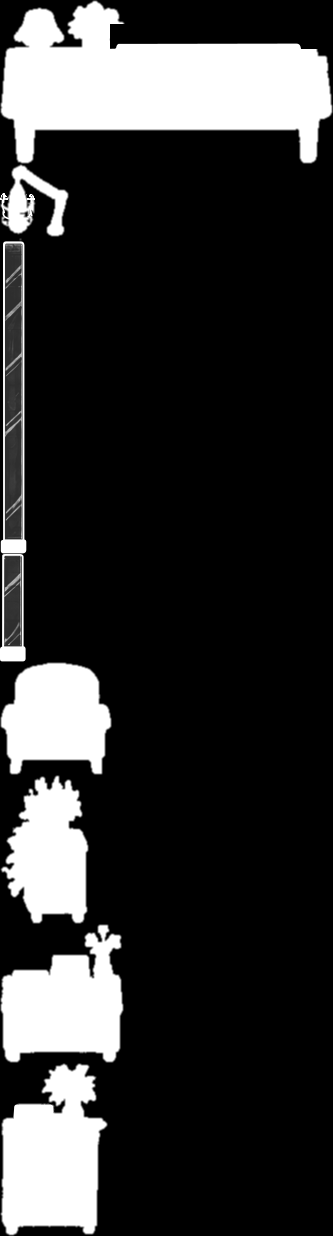
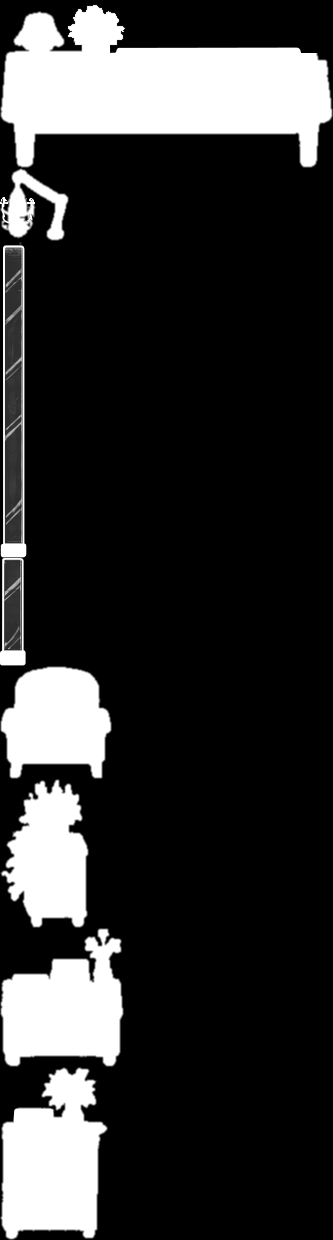
Trace flowers, cinema fences, town shrub and meadow tent occlusion

diff --git a/src/room-furniture.ts b/src/room-furniture.ts
@@ -4,22 +4,6 @@ const outline = (pairs: number[][]): Point[] => pairs.map(([x,y]) => ({x,y}));
 
 // Silhouettes follow the finished map artwork; depth is measured at the floor.
 export const roomFurniture = [
-  {id:"desk", y:253, points:outline([
-    [21,131.75],[19,135],[17.75,140],[16.5,140.5],[16.5,153.25],[18.25,157.25],[17.75,167],[18.5,167.75],
-    [18.25,169.75],[19,173.25],[21.75,170.5],[24.5,170.5],[25.5,172],[21.75,180],[22,184.25],[19.25,190.75],
-    [19.75,195.5],[17.75,196.75],[17.75,201],[19.25,204],[17.75,206.5],[17,206],[16.25,206.75],[15.5,206],
-    [13.75,208],[12.75,206.75],[13,215],[14.25,216.25],[13.5,226.75],[15,228.75],[14.75,232.25],[16.25,234.5],
-    [16.25,238.75],[18.25,240.75],[18.25,243.25],[19.75,243.25],[19.25,249.75],[21.25,251.75],[22.75,251.75],[24,253],
-    [26.75,253],[28.25,251],[28.25,244.25],[56.5,244.25],[57.25,245.5],[57.25,250.5],[59.5,253.25],[62.75,253],
-    [63.75,251.25],[63.5,242.75],[64.25,242.5],[64.25,237.25],[69,223.25],[69.25,220],[70,219.25],[69,218.25],
-    [69,217],[70,215],[70,210.75],[73.25,197.75],[75.5,192.75],[78,190],[81.75,190],[82.25,174],
-    [81.5,165.5],[82.25,163.5],[82.25,158],[80,155],[80,149],[78.25,147],[80,140],[78.25,138.5],
-    [76.75,140.75],[78,142],[76.75,144],[76,143.5],[73.25,146.75],[71.75,146.75],[69.75,146],[68.5,144.25],
-    [67.5,144.25],[65.5,140.75],[64.75,140.75],[63.5,144],[60.75,143.5],[59.5,145],[59.25,148.75],[57.25,152.25],
-    [55.25,151.25],[55.25,147.5],[52.25,140.75],[46,135],[40.5,134.25],[35.25,137],[34.5,142.5],[31.5,147.75],
-    [31.5,152.25],[28.25,152.5],[27.5,149],[26.25,148.25],[27.25,144.75],[25.5,143.5],[26,142.5],[25.25,139.25],
-    [23.25,139.25],[22,138],
-  ])},
   {id:"desk-chair", y:232, points:outline([
     [105,161.25],[101.25,161.5],[99.75,167.5],[95.5,174],[95,184.5],[96,186.5],[92.5,190],[83.5,190],
     [82.5,189.25],[79.5,189.75],[76.25,192.5],[74.75,192.75],[71.75,196.75],[69.75,204],[69.75,208.75],[67.75,212.25],
@@ -53,44 +37,6 @@ export const roomFurniture = [
     [468.5,46.25],[463,47.5],[442,57.25],[440.5,56.5],[441.5,55],[439.25,52.25],[439.25,51],[435.75,47.5],
     [432.5,47.5],
   ])},
-  {id:"bedside-bouquet", y:218, points:outline([
-    [579,179],[576.75,180.75],[574,181],[570,180.25],[569.25,181],[569.25,183],[566.5,184.5],[563.75,183.75],
-    [563,186.25],[561.5,187.25],[562,189.25],[560,190.5],[560,191.5],[561.25,191.5],[562,193.25],[560.75,195],
-    [560.25,197.75],[562.25,197.75],[564.75,199.75],[566.25,199.75],[567,201.25],[569,202.25],[568.5,204.5],[567,206.75],
-    [566.5,212.25],[568.5,217],[572.75,219],[576,219],[579.5,217],[582.25,214.25],[583,212.75],[582.25,203.25],
-    [584.5,201.25],[587.75,201],[588.5,190.75],[585.75,188.75],[584.5,185],[582.5,183.75],[582.5,182.5],[581,181.75],
-  ])},
-  {id:"wall-vase", y:103, points:outline([
-    [174,62.75],[171.25,63.75],[172,65],[172,68.25],[171,69.75],[165.5,70.5],[165.5,68.25],[163.75,67.5],
-    [162,68.5],[162.25,69.75],[161.5,71.75],[163.5,72.75],[163,75.25],[163.75,76],[163.5,80.25],[162.25,82.25],
-    [163.75,84.5],[163.75,86.25],[165.5,87.25],[165.5,97.75],[166.5,100.5],[168.25,102.25],[169,101],[176.75,102.25],
-    [181,99.5],[181,89.75],[182.5,88],[187.25,86.5],[188.5,85.25],[188.5,78],[190.5,76],[189.25,73.25],
-    [186.5,72.5],[184.5,70.5],[184.5,69.25],[186.25,68.25],[184.5,67.5],[181.75,67.5],[180,70.5],[179,69.25],
-    [178,69.75],[177.25,67.5],[178,65],[176.25,64.75],[176,63.5],
-  ])},
-  {id:"wicker-basket", y:324, points:outline([
-    [25.5,260.25],[24.5,263.5],[25.5,265],[24,269],[21.75,270],[21.25,272.75],[19,274],[17.75,283.75],
-    [13.75,291.25],[14.25,300.25],[16.5,305],[16.25,310.75],[26.25,319.75],[31.5,322.75],[36.5,324],[49,324],
-    [50.5,323.25],[51,321],[58.5,321],[62,319.75],[68.25,314.75],[71.25,307.25],[71.25,301],[72,300.25],
-    [72.75,296.25],[72,289.25],[70.5,287.25],[70,285.25],[67.75,282.5],[65,283],[61.25,281],[58,280.75],
-    [56.5,279],[54.5,279],[53,277.5],[52.5,273.25],[49.5,270],[49.5,267],[45.5,266.25],[44.25,267.5],
-    [42.75,265.75],[44,263],[44,261.25],[42.75,259.5],[39.25,260.75],[39.25,262],[37.25,263.75],[37.75,265.5],
-    [36.25,267],[35.25,266.25],[34.25,266.5],[33,265.5],[33,264.75],[30.25,262],[30.25,260],[29,258.75],
-    [26.75,260.75],
-  ])},
-  {id:"table", y:249, points:outline([
-    [330.75,183.5],[330.25,184.25],[328.75,183],[328.75,182.25],[327.5,182.5],[325.5,180],[322.75,179],[322.5,183.75],
-    [320,185],[320,187.25],[321.25,188.75],[321,190.75],[321.75,191.5],[320.5,194.25],[317,190.5],[317,188.5],
-    [315.5,186.5],[313.5,186.5],[313.5,188],[312.75,188.75],[311.5,187.75],[311.5,188.5],[310.25,188.75],[310,194.25],
-    [310.75,194.25],[311.5,195],[311.25,195.5],[306.75,195.5],[306.5,194.75],[295.5,194.75],[294,195.5],[289.25,195.5],
-    [288.75,196.25],[283,196.75],[281,197.75],[280,197.5],[277.5,199.5],[276.25,199],[274,200.25],[266.5,206.5],
-    [263,213.75],[263,226.25],[267.5,233],[270.5,236.25],[273.25,237.75],[272.75,246.25],[274.75,248.25],[278,248.25],
-    [279.5,247.5],[281.5,244.25],[281.75,242],[286.5,242.75],[288.75,244],[293.5,244],[294,244.75],[306.75,244.75],
-    [307.25,244],[312.25,244],[319.75,241.5],[320,246],[322,247.75],[326,248.25],[328,246.25],[328.25,238.5],
-    [333.75,232.5],[336.5,228.25],[337,224.5],[337.75,224],[337.75,214.25],[334.25,206.75],[336.25,204],[336.5,201],
-    [334.5,199.5],[334.5,197.5],[333.5,196.25],[333.5,194.75],[335,193.25],[336.25,194],[337,192.5],[336.25,190.75],
-    [334.5,190.5],[334.25,189.75],[332.25,189.75],[330.75,191.5],[330,190.75],[330,188.75],[328.75,187],
-  ])},
   {id:"gift-west", y:354, points:outline([
     [507.5,318.5],[506,318.5],[501.75,320.5],[501.25,321.25],[499,321.75],[490,327.5],[490,332.5],[490.75,333],
     [490.75,342],[505.25,353.75],[506.75,353.75],[514.75,348.25],[515.5,349],[517,349],[518.5,347.5],[518.5,346],
@@ -116,16 +62,6 @@ export const roomFurniture = [
     [574.5,281.5],[574,280.25],[572.75,280],[572.75,276.25],[574.5,276.25],[574.5,275.25],[572.5,273.25],[573.25,269.75],
     [571.75,267.75],[569.75,267.5],[567,264.75],[558.5,261.25],
   ])},
-  {id:"gift-flowers", y:320, points:outline([
-    [587.75,256],[582.5,260.75],[583.5,261.5],[582.25,263],[580.75,262],[578.25,262],[576,259.5],[576.25,258.75],
-    [574.5,259.5],[572.75,261.25],[572.5,264.25],[571.25,264.75],[571.75,267],[569,269.25],[567.75,271.75],[565,273.75],
-    [565.5,274.5],[563.75,276],[560.75,275.5],[559.25,277.25],[560.75,280.25],[560,281.75],[558,283],[558,284.25],
-    [556.75,284.25],[555.75,285.25],[557.25,286.5],[556,288],[556.5,291.5],[559.25,294.25],[559.25,296],[564.75,296],
-    [565.75,297.75],[567.75,298.75],[568.5,301.75],[568.25,314.75],[571,317.5],[576,319],[577.5,320],[579.5,319],
-    [579.5,317.75],[581.5,315],[581.5,313.5],[582.25,313],[582.25,310],[580.75,303.75],[580.75,297],[582.25,295.5],
-    [588.5,294.75],[592.75,288.5],[592.5,279],[593.25,277.5],[592.5,276.75],[592.5,263.75],[591.25,262.75],[588.5,262.25],
-    [588.5,256.5],
-  ])},
   {id:"gift-front-blue", y:368, points:outline([
     [541.25,326.25],[536.25,324.75],[527.5,325.25],[527.25,326],[521.25,327.5],[517.75,330],[513,335.75],[513.75,358],
     [517,362.25],[523.25,367],[526.25,367],[528,366.25],[529.5,367],[530.25,366.25],[531.5,366.5],[531.75,365.5],
@@ -146,7 +82,7 @@ export const roomFurniture = [
 ];
 
 // The sloping arrangement leaves floor exposed beside the smaller parcels.
-// Their raised lids, handles and bouquet are already in the foreground above.
+// The raised lids and handles use the silhouettes above. The vase is in room-floral-covers.
 const giftFeet: [string, number[][]][] = [
   ["淡紫帽盒",[[534,283],[545,279],[563,279],[572,285],[570,292],[559,299],[549,303],[535,295]]],
   ["小缎带盒",[[506,298],[515,294],[531,291],[536,297],[533,308],[520,317],[507,315]]],

diff --git a/tests/depth-fixture.ts b/tests/depth-fixture.ts
@@ -13,7 +13,10 @@ import waterfrontMasks from "../src/town-waterfront-masks.json";
 import streetFurnitureMasks from "../src/town-street-furniture-masks.json";
 import plazaTreeOutlines from "../src/town-plaza-trees.json";
 import gardenDetails from "../src/garden-street-details.json";
+import cinemaSurroundings from "../src/garden-cinema-covers.json";
+import roomFlowers from "../src/room-floral-covers.json";
 import meadowScenery from "../src/meadow-scenery-outlines.json";
+import { tentRoof } from "../src/meadow-ground";
 import { workshopCanopies } from "../src/town-workshop-vegetation";
 import { southEdgeCanopies, townCanopies } from "../src/town-scenery";
 import { gardenSign } from "../src/garden-sign";
@@ -63,10 +66,25 @@ const foregroundByScene = { room:roomFurniture, garden:gardenForeground, town:to
   challenge:courageBorder, ruins:ruinsForeground, meadow:[] };
 const masksByScene = {
   town: [...playgroundMasks, ...streetlightMasks, ...waterfrontMasks, ...streetFurnitureMasks, ...plazaTreeOutlines],
-  garden: gardenDetails,
+  garden: [...gardenDetails, ...cinemaSurroundings],
+  room: roomFlowers,
   meadow: meadowScenery,
 };
 const cases:DepthCase[]=[
+  {id:"wall-vase",scene:"room",depth:103,solid:[{x:175,y:66},{x:174,y:95}],clear:[{x:190,y:55}]},
+  {id:"sill-west-flowers",scene:"room",depth:83,solid:[{x:245,y:66},{x:242,y:74}],clear:[{x:235,y:60}]},
+  {id:"wicker-basket",scene:"room",depth:324,solid:[{x:37,y:267},{x:26,y:263}],clear:[{x:51,y:257}]},
+  {id:"bedside-bouquet",scene:"room",depth:218,solid:[{x:572,y:181},{x:574,y:212}],clear:[{x:555,y:187}]},
+  {id:"table",scene:"room",depth:249,solid:[{x:322,y:181},{x:327,y:190}],clear:[{x:304,y:186}]},
+  {id:"cinema-east-bridge-back-rail",scene:"garden",depth:197,solid:[{x:878,y:186},{x:864,y:193}],clear:[{x:880,y:190}]},
+  {id:"cinema-west-lower-rail",scene:"garden",depth:226,solid:[{x:607,y:222}],clear:[{x:585,y:222},{x:607,y:216}]},
+  {id:"cinema-seat-front-post",scene:"garden",depth:341,solid:[{x:803,y:317},{x:803,y:334}],clear:[{x:808,y:315}]},
+  {id:"cinema-seat-bench",scene:"garden",depth:338,solid:[{x:785,y:322},{x:791,y:324}],clear:[{x:785,y:326}]},
+  {id:"cinema-cushion-front-cream",scene:"garden",depth:314,solid:[{x:681,y:308}],clear:[{x:670,y:297}]},
+  {id:"bakery-stair-rose-planter",scene:"town",depth:354,solid:[{x:683,y:348},{x:687,y:330}],clear:[{x:693,y:330}]},
+  {id:"camp-tent-east-guy",scene:"meadow",depth:151,solid:[gp(346,252)],clear:[gp(341,252)]},
+  {id:"camp-tent-front-guy",scene:"meadow",depth:176,solid:[gp(209,293)],clear:[gp(217,295)]},
+  {id:"camp-tent-canvas",scene:"meadow",depth:168,solid:[gp(223,176),gp(190,268)],clear:[gp(269,241),gp(240,287)],existingOutline:tentRoof,fragments:[tentRoof]},
   {id:"plaza-south-fir",scene:"town",depth:662.5,solid:[{x:748,y:565},{x:749,y:600},{x:748,y:643}],
     clear:[{x:737,y:572},{x:762,y:577},{x:768,y:626}],actor:{x:747,positions:[575,587,665]}},
   {id:"plaza-bookshop-lime",scene:"town",depth:605,solid:[{x:820,y:565},{x:806,y:577}],clear:[{x:820,y:550},{x:820,y:591},{x:850,y:578}],actor:{x:820,positions:[563,578,609]}},
@@ -239,7 +257,7 @@ function sampleEdges(outlines:Point[][],landmarks:NonNullable<DepthCase["edges"]
 }
 async function verify(test:DepthCase){
   const foreground=foregroundByScene[test.scene];
-  const masks = test.scene === "town" || test.scene === "garden" || test.scene === "meadow" ? masksByScene[test.scene] : [];
+  const masks = test.scene === "town" || test.scene === "garden" || test.scene === "room" || test.scene === "meadow" ? masksByScene[test.scene] : [];
   const baked = masks.find(mask => mask.id === test.id);
   const target=baked ? {
     id:baked.id,y:baked.depth,points:[{x:baked.x,y:baked.y},{x:baked.x+baked.w,y:baked.y+baked.h}],

diff --git a/src/meadow-ground.ts b/src/meadow-ground.ts
@@ -23,21 +23,31 @@ export function enteredMoonCircle(before:{x:number;y:number},after:{x:number;y:n
   const distance=(p:{x:number;y:number})=>((p.x-meadowExit.x)/12)**2+((p.y-meadowExit.y)/6.5)**2;
   return distance(before)>1 && distance(after)<=1;
 }
-// Follow the canvas, crossed poles and front peg in source pixels. Do not
-// bridge the sagging roof with a straight edge that repaints the night grass.
+// Front canvas and crossed poles in source pixels. The open doorway exposes the
+// separately sorted interior. The guy lines end at three independent ground pegs.
 export const tentRoof = [
-  [158,236],[166,226],[176,211],[184,194],[191,177],[197,161],
-  [202,152],[207,151],[213,154],[220,156],[236,157],[250,156],[259,153],
-  [267,150],[266,146],[263,142],[259,137],[259,132],[262,130],[265,131],
-  [270,139],[274,144],[275,144],[278,136],[281,130],[284,132],[282,139],
-  [278,147],[279,152],[281,159],[286,168],[291,179],[298,190],[307,204],
-  [316,215],[323,222],[329,226],[333,227],[334,230],[331,232],
-  [333,248],[332,256],[326,261],[323,263],[318,264],[315,266],[310,267],
-  [305,269],[294,272],[285,273],[277,277],[268,278],[262,281],[253,281],
-  [247,278],[238,276],[230,274],[228,283],[226,289],[222,290],[219,288],
-  [216,285],[214,284],[213,287],[213,298],[206,299],[206,288],
-  [202,287],[202,283],[196,282],[188,279],[177,277],[167,272],
-  [158,266],[151,260],[147,253],[148,246],[153,240],
+  [285.5,131.17],[282.17,131.5],[282.17,133.5],[278.17,138.5],[277.17,142.5],[274.5,144.17],
+  [266.83,131.5],[263.5,130.17],[261.17,132.5],[264.17,135.5],[264.17,138.5],[270.17,145.5],
+  [271.17,149.5],[266.5,153.17],[262.5,153.17],[258.5,156.17],[255.5,156.17],[251.5,158.17],
+  [246.5,158.17],[244.5,161.17],[242.5,160.17],[226.5,160.17],[223.5,159.17],[221.5,157.17],
+  [216.5,156.17],[215.5,154.17],[209.5,154.17],[209.17,155.5],[206.17,157.5],[196.17,176.5],
+  [196.17,178.5],[189.17,193.5],[183.17,201.5],[182.17,204.5],[178.17,208.5],[178.17,210.5],
+  [175.17,214.5],[174.17,219.5],[159.17,237.5],[160.17,238.5],[160.17,244.5],[166.17,250.5],
+  [167.5,262.83],[169.5,262.83],[173.5,266.83],[175.5,266.83],[178.5,269.83],[181.5,269.83],
+  [184.5,272.83],[187.5,272.83],[194.5,278.83],[198.5,278.83],[201.5,281.83],[203.5,280.83],
+  [209.5,281.83],[217.5,275.83],[219.5,275.83],[223.17,288.5],[225.5,290.83],[227.5,290.83],
+  [230.83,287.5],[231.83,282.5],[233.5,281.83],[237.83,276.5],[237.83,272.5],[238.83,271.5],
+  [238.83,267.5],[239.83,266.5],[241.83,255.5],[243.83,251.5],[243.83,248.5],[247.83,236.5],
+  [249.83,234.5],[250.83,227.5],[252.83,225.5],[252.83,221.5],[254.83,219.5],[254.83,216.5],
+  [257.83,210.5],[257.83,207.5],[261.83,195.5],[266.83,189.5],[268.83,183.5],[268.83,179.5],
+  [272.83,174.5],[272.83,168.5],[275.83,165.5],[276.5,162.83],[280.17,170.5],[280.17,172.5],
+  [284.17,177.5],[287.17,195.5],[291.17,199.5],[291.17,202.5],[293.17,204.5],[295.17,210.5],
+  [295.17,214.5],[297.17,216.5],[297.17,219.5],[299.17,222.5],[299.17,230.5],[304.17,238.5],
+  [305.17,246.5],[311.17,253.5],[313.17,262.5],[317.5,265.83],[324.5,265.83],[327.83,263.5],
+  [330.83,256.5],[330.83,238.5],[333.83,231.5],[336.83,229.5],[336.83,227.5],[333.5,226.17],
+  [324.83,216.5],[315.83,202.5],[292.83,171.5],[292.83,169.5],[290.83,168.5],[286.83,162.5],
+  [286.83,160.5],[284.83,159.5],[283.83,156.5],[280.83,152.5],[281.83,151.5],[279.83,147.5],
+  [281.83,146.5],[282.83,141.5],[284.83,139.5],[284.83,137.5],[286.83,134.5],[286.83,132.5],
 ].map(([x,y])=>({x:x*900/1536,y:y*600/1024}));
 
 export const meadowGround: Scene = {

diff --git a/src/nature.ts b/src/nature.ts
@@ -24,6 +24,8 @@ import { drawKeepsake } from "./scene-art";
 import { drawWildSprite } from "./wild-art";
 import { drawFirefly, fireflyDrift } from "./firefly-art";
 import gardenDetails from "./garden-street-details.json";
+import cinemaSurroundings from "./garden-cinema-covers.json";
+import roomFlowers from "./room-floral-covers.json";
 import { prepareMapCovers, visibleMapCovers } from "./map-covers";
 import { mapFragment } from "./map-fragment";
 import { gardenForeground } from "./garden-foreground";
@@ -31,7 +33,9 @@ import { gardenGateLamp } from "./garden-gate-lamp";
 import { gardenSign } from "./garden-sign";
 import { roomFurniture } from "./room-furniture";
 import { roomBalloons } from "./room-foreground";
-const gardenCovers = prepareMapCovers(gardenDetails);
+// The cinema contours stop where the creek and its bridge cover the original painting.
+const gardenCovers = prepareMapCovers([...gardenDetails, ...cinemaSurroundings]);
+const roomFloralCovers = prepareMapCovers(roomFlowers);
 
 interface NatureSave {
   picked: Record<string, number>;
@@ -434,6 +438,7 @@ export class Nature {
   }
   private depthLayers() {
     if (this.world.scene === "room") return [
+      ...visibleMapCovers(this.world, roomFloralCovers),
       ...roomFurniture.filter(p => p.id !== "bed" || this.world.restState?.kind !== "lying")
         .map(p => ({y:p.y, outline:mapFragment(p.points).mask, draw:(c:CanvasRenderingContext2D) => this.world.drawMapFragment(c,p.points)})),
       {y:249, draw:(c:CanvasRenderingContext2D) => this.activities.drawCake(c, performance.now() / 1000)},

diff --git a/src/night-meadow.ts b/src/night-meadow.ts
@@ -17,6 +17,7 @@ import { drawJelly, drawKettleSteam, prepareJellyBells } from "./meadow-jelly-ar
 import { sceneArt } from "./scene-art";
 import sceneryOutlines from "./meadow-scenery-outlines.json";
 import { prepareMapCovers, visibleMapCovers } from "./map-covers";
+import { mapFragment } from "./map-fragment";
 import { drawFlexibleCover } from "./scenery-wind";
 import type { ResidentStory } from "./resident-story";
 
@@ -200,7 +201,8 @@ export class NightMeadow {
     const atlas = this.world.meadowSprites, t = this.reduced.matches ? 0 : this.time;
     const sceneryTime = this.world.ambientTime, still = this.reduced.matches;
     const layers: DepthLayer[] = [
-      {y: 168, draw: c => drawFlexibleCover(c,this.world,tentRoof,still)},
+      {y: 168, outline: still ? mapFragment(tentRoof).mask : undefined,
+        draw: c => drawFlexibleCover(c,this.world,tentRoof,still)},
       {y: 145, draw: c => drawKettleSteam(c, sceneryTime, still)},
       {y: starJar.y, draw: c => drawWildSprite(c, atlas, 3, starJar.x, starJar.y, 17)},
       ...this.campGuest.layers(sceneArt.patrickCamp, this.reduced.matches),

diff --git a/tests/scenery-foreground.test.ts b/tests/scenery-foreground.test.ts
@@ -7,7 +7,7 @@ import { roomBalloons } from "../src/room-foreground.ts";
 
 test("camp canvas and ruin ivy silhouettes retain their edges without repainting grass or paving",()=>{
   const cases=[
-    {name:"tent",outline:tentRoof,solid:[[269,144],[223,176],[190,268],[209,292]],clear:[[222,153],[236,150],[250,150],[240,287],[270,283]]},
+    {name:"tent",outline:tentRoof,solid:[[269,144],[223,176],[190,268],[279,167]],clear:[[222,153],[236,150],[250,150],[240,287],[270,283],[249,251],[209,292]]},
     {name:"ruin lintel",outline:stairLintel,solid:[[763,720],[723,728],[708,818],[856,829]],clear:[[773,710],[741,717],[750,800],[790,800],[775,786]]},
   ];
   for(const {name,outline,solid,clear}of cases){

diff --git a/tests/town-interior-runtime.test.ts b/tests/town-interior-runtime.test.ts
@@ -347,7 +347,8 @@ test("furniture cutouts cover painted objects and leave the adjoining floor visi
       ["茶几", [[1047,343],[1069,327]], [[1122,365],[1067,322]]],
     ]],
     ["radio", [
-      ["调音台", [[306,250]], [[308,245]]],
+      ["调音台", [[306,250],[195,206],[173,228],[223,229],[222,237],[213,240]],
+        [[308,245],[169,220],[223,225],[224,234],[196,202]]],
       ["话筒底座", [[366,246],[400,230]], [[401,223]]],
       ["监听设备架", [[1074,405],[1048,409]], [[1041,402]]],
     ]],
